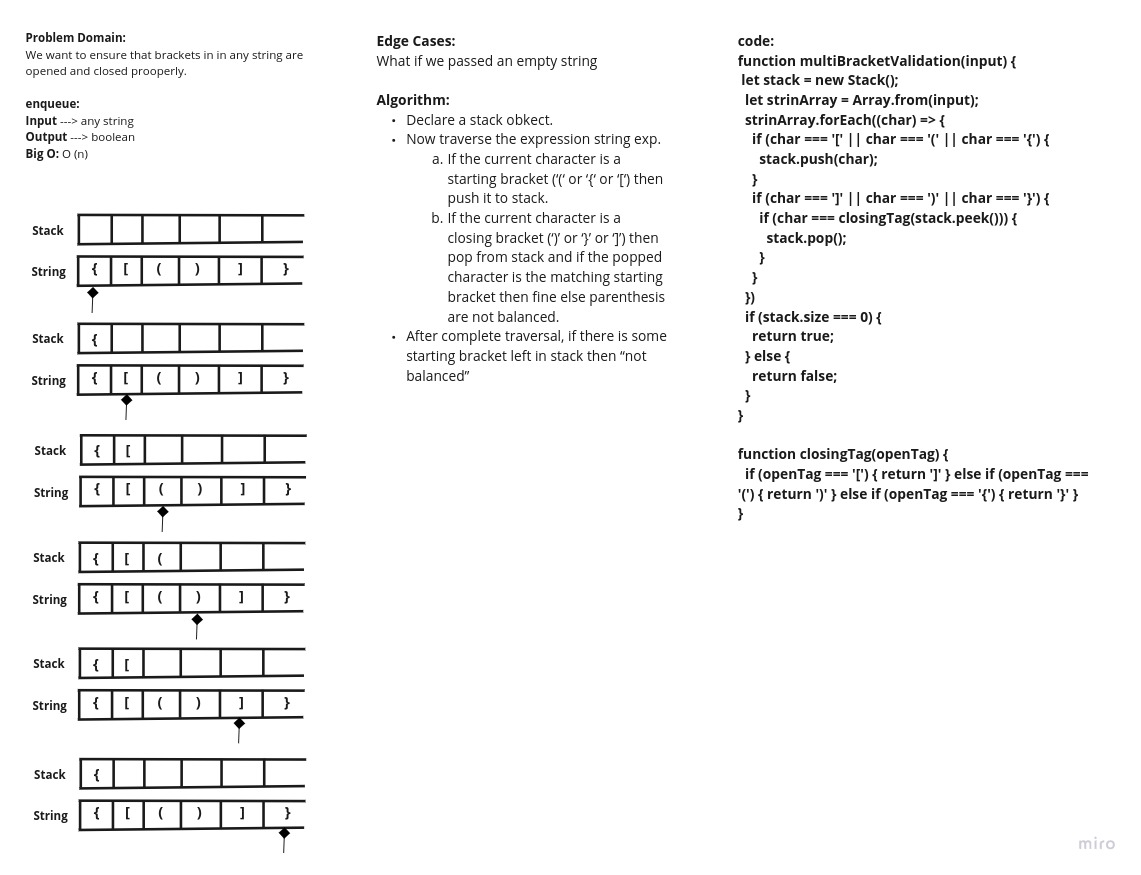
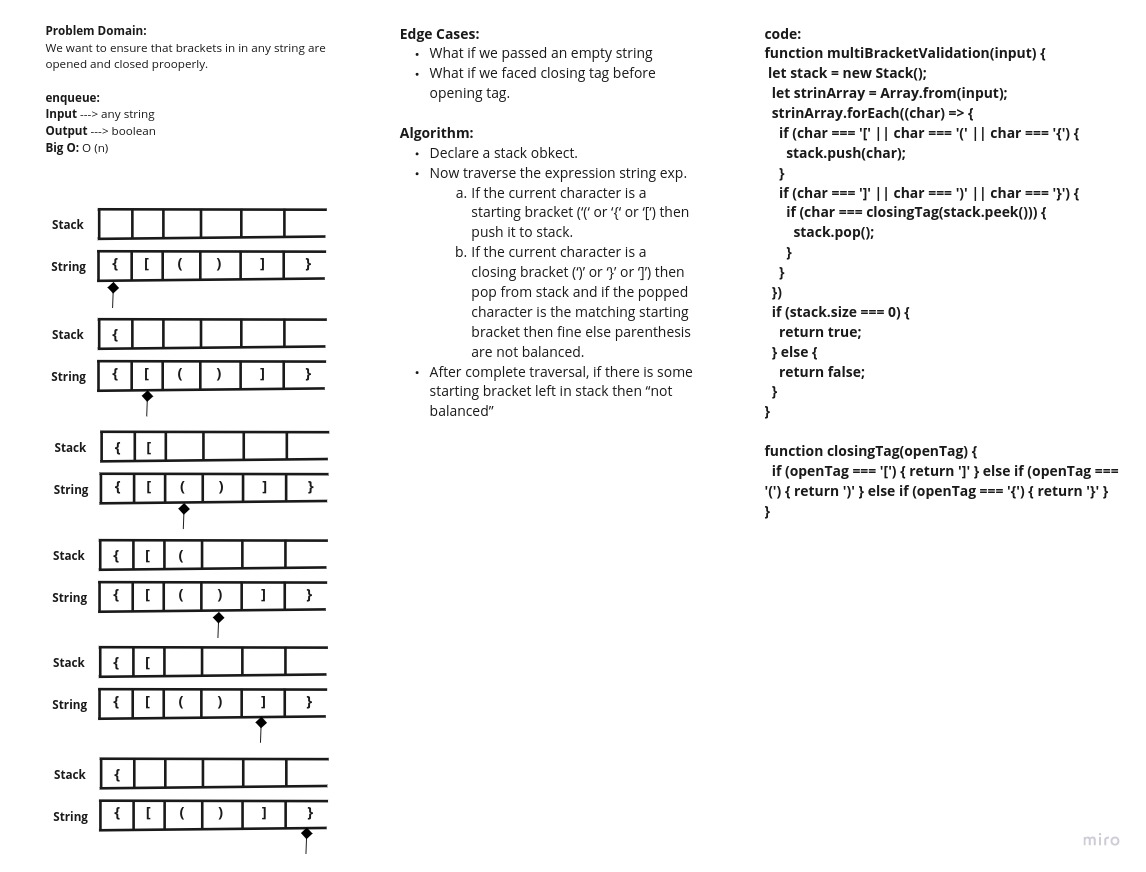
addAnotherEdgeCase

diff --git a/multiBracketValidation/multi-bracket-validation.js b/multiBracketValidation/multi-bracket-validation.js
@@ -2,6 +2,7 @@
 const Stack = require('../stacksAndQueues/stack.js');
 
 function multiBracketValidation(input) {
+  let closeWithoutOpen = false;
   let stack = new Stack();
   let strinArray = Array.from(input);
   strinArray.forEach((char) => {
@@ -11,10 +12,12 @@ function multiBracketValidation(input) {
     if (char === ']' || char === ')' || char === '}') {
       if (char === closingTag(stack.peek())) {
         stack.pop();
+      } else {
+        closeWithoutOpen = true;
       }
     }
   })
-  if (stack.size === 0) {
+  if (stack.size === 0 && !closeWithoutOpen) {
     return true;
   } else {
     return false;

diff --git a/multiBracketValidation/__tests__/multi-bracket-validation.test.js b/multiBracketValidation/__tests__/multi-bracket-validation.test.js
@@ -15,8 +15,12 @@ describe('Multi Brackets Validation Module', () => {
     let string1 = '[hello[';
     let string2 = '{}(]{}';
     let string3 = '{';
+    let string4 = ']';
+    let string5 = '{([])}]';
     expect(multiBracketValidation(string1)).toBeFalsy();
     expect(multiBracketValidation(string2)).toBeFalsy();
     expect(multiBracketValidation(string3)).toBeFalsy();
+    expect(multiBracketValidation(string4)).toBeFalsy();
+    expect(multiBracketValidation(string5)).toBeFalsy();
   });
 })
